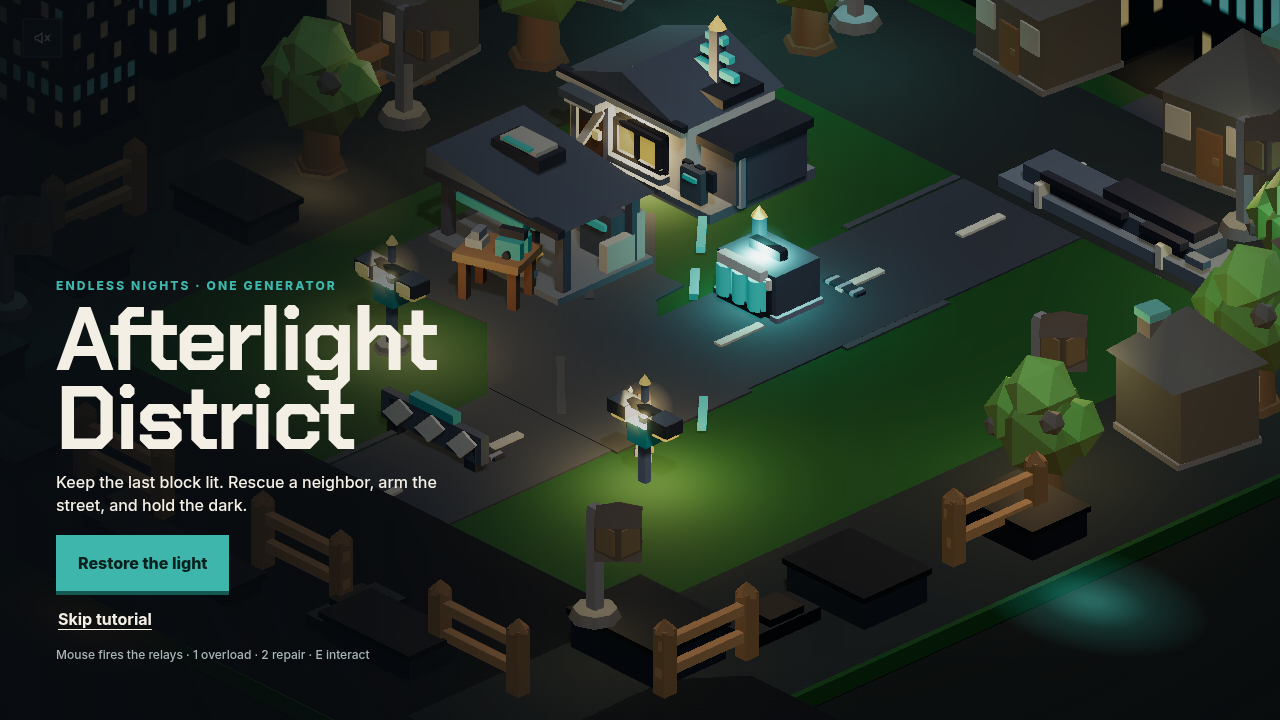
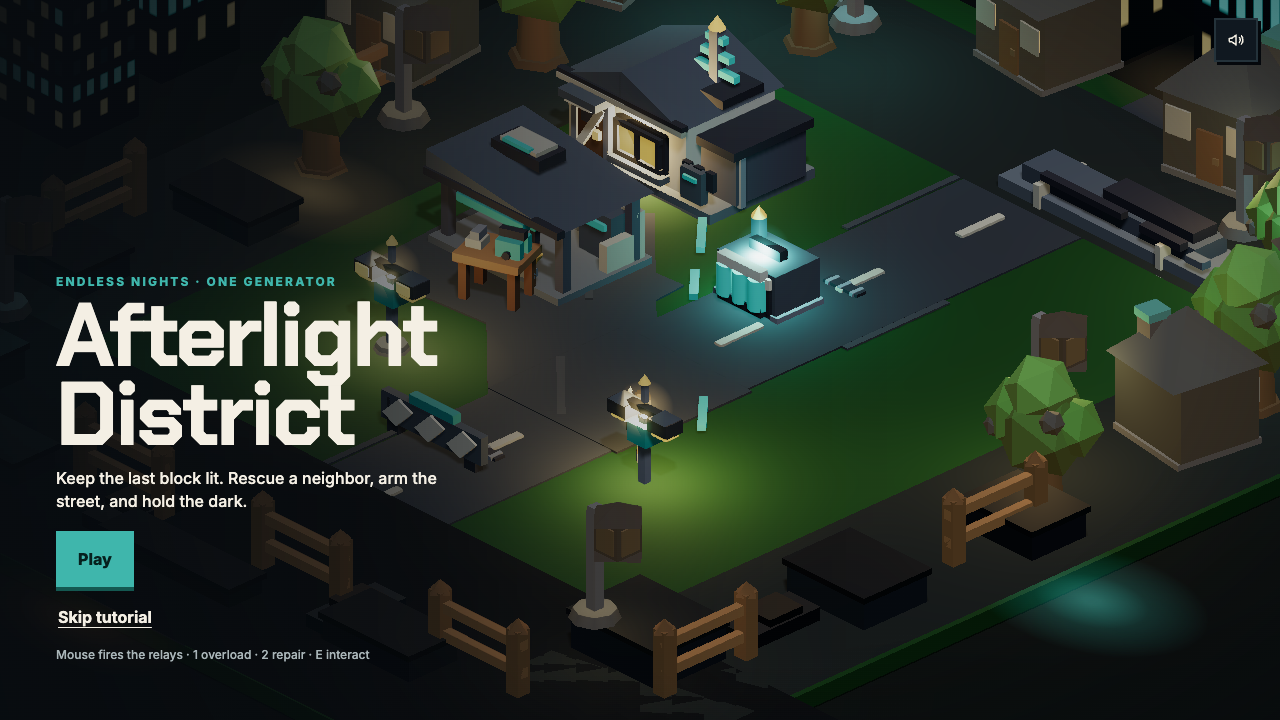
Record R3 tutorial, title and real-time clock verification

Changed region(s): [[0.0312, 0.3667, 0.3438, 0.9167], [0.9375, 0.0, 1.0, 0.0917], [0.1562, 0.8861, 0.1875, 0.9167]]

diff --git a/R3.md b/R3.md
@@ -1,0 +1,12 @@
+# R3 browser evidence — 2026-10-11
+
+Guest source: `fd6204a3f19fac17a6d68315569203d4678838da`, branch `cursor/crazygames-guest-9e58`.
+Report: [doc/qa-fix-r3.md](https://github.com/yinxinghuan/afterlight-district/blob/fd6204a3f19fac17a6d68315569203d4678838da/doc/qa-fix-r3.md).
+
+01 / 02 / 03 updated at 1280×720; 04–07 retained. 08 is the new clickable repair target, 09 is a real saved-run Continue entry.
+The explicitly sized `after-*` images cover title, repair, dusk, Continue and night 1 at CPU 1× / 6× and a QA-only ~2 FPS scheduler. `r3-results.json` contains raw timings and error/input checks; the final title images additionally reflect right-aligned mute.
+
+Both 34-file host hash lists are byte-identical and their whole sorted-list SHA256 is:
[1 lines of base64/hex data omitted]
+
+No deployment, merge or CrazyGames submission. Synthetic low-frame tests are not a claim of testing actual no-GPU hardware. Automated tutorial execution is not human comprehension approval.
